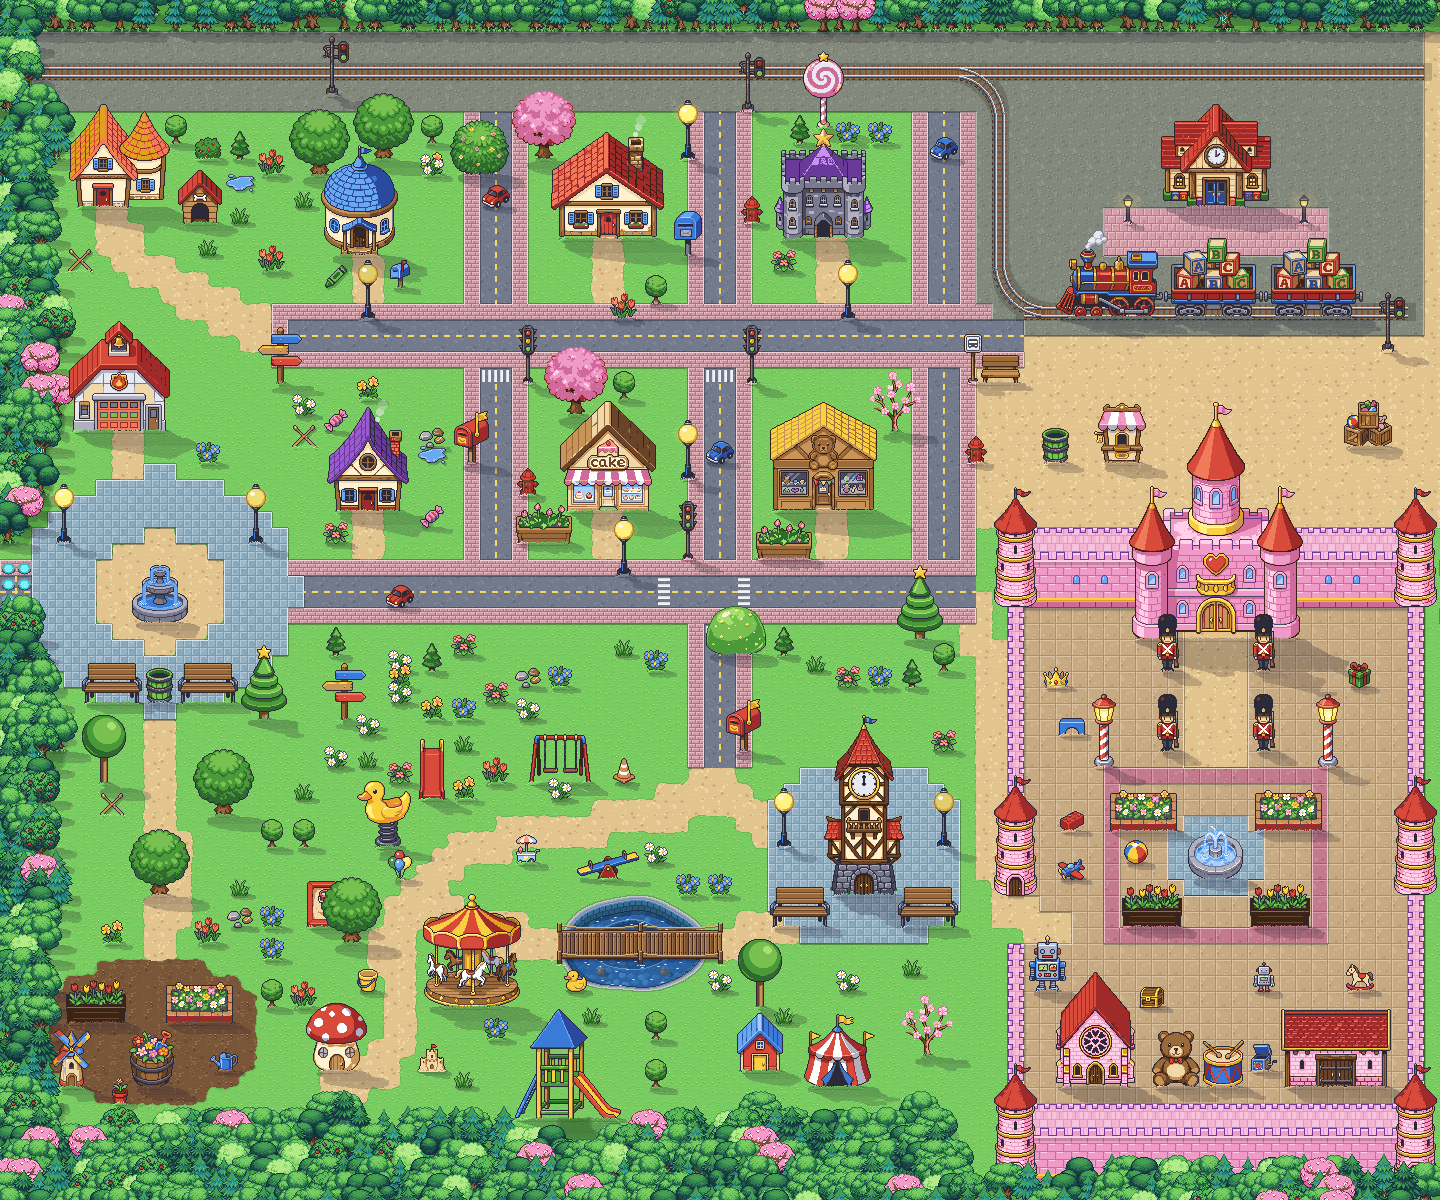
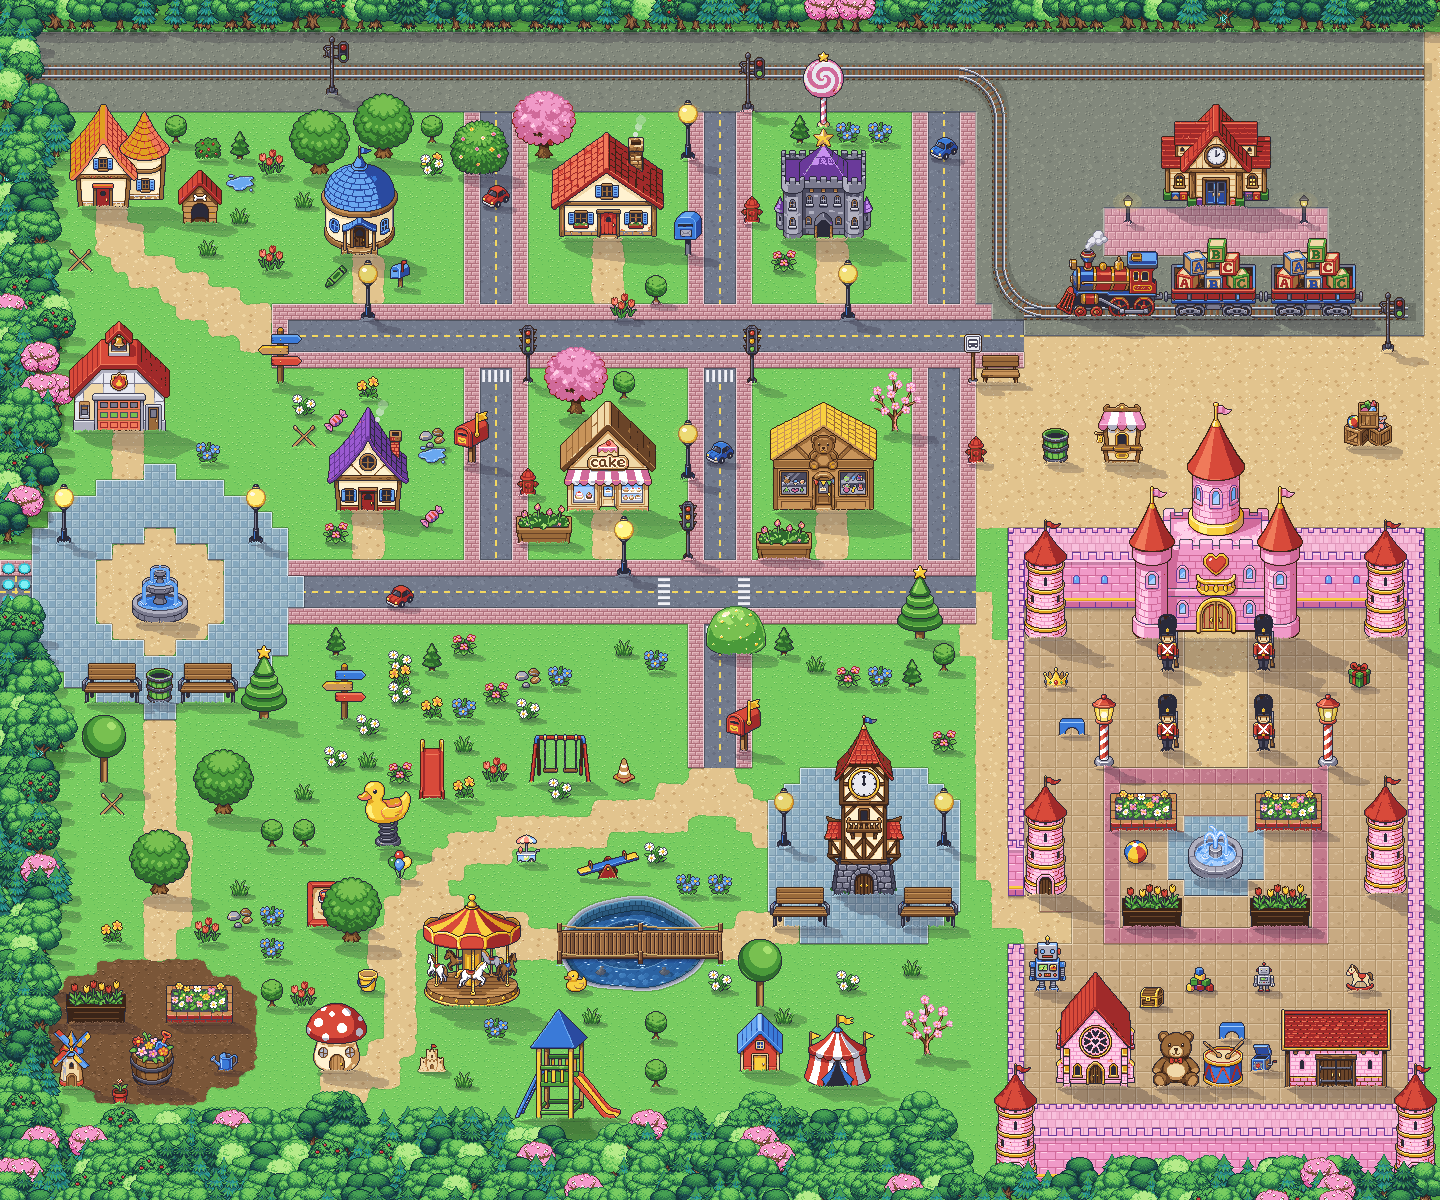
Karte 10: Tuerme an Nord- und Seitenmauern stehen innen im Burghof an der Mauer (Fuss auf dem Boden, mit Schatten), spiegelgleich
Claude-Session: https://claude.ai/code/session_01SaoYHKhnro4LFcPJqjaPsq

diff --git a/tools/karte10_objekte.py b/tools/karte10_objekte.py
@@ -252,8 +252,12 @@ def main():
     to, _, _, _ = sprite('schloss2/02_ohne_tuer')          # Tuerme ohne Tuer (Nutzer: Tueren ins Nichts weg)
     tw = alpha[td].shape[1]
     W_, O_ = 63 * T + 8, 88 * T + 8                       # Mitte der West- und Ostmauer (symmetrisch zu 1216)
-    tuerme = [(W_, WAND_FUSS, True, to), (O_, WAND_FUSS, True, to),             # Ecken Nordmauer
-              (W_, 55 * T + 15, True, td), (O_, 55 * T + 15, True, to),         # Seitentor (West) / gegenueber (Ost)
+    # Tuerme an Nord- und Seitenmauern stehen innen im Burghof direkt an der Mauer (Fuss auf dem Hofboden, nicht auf
+    # der schmalen Mauerkrone - die Mauer laeuft sichtbar daneben weiter), exakt spiegelgleich zur Achse
+    IW_ = 64 * T + tw // 2 + 1                         # linke Kante des Turms = Innenkante der Westmauer
+    IO_ = 2 * ACHSE_BURG - IW_
+    tuerme = [(IW_, 39 * T + 15, False, to), (IO_, 39 * T + 15, False, to),     # Ecken Nordmauer (im Hof)
+              (IW_, 55 * T + 15, False, td), (IO_, 55 * T + 15, False, to),     # am Seitentor (West) / gegenueber (Ost)
               (W_, 73 * T + 15, True, td), (O_, 73 * T + 15, True, td)]         # Ecken Suedmauer (Baeume davor)
     for (cx, fy, wand, td) in tuerme:
         xx = int(round(cx - tm))
